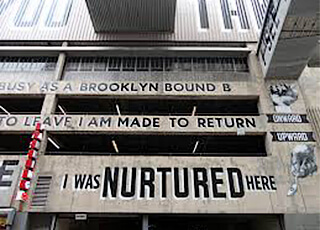
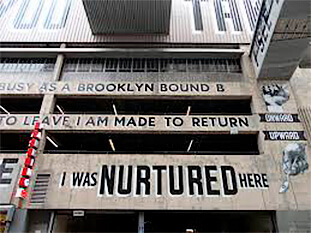
Cases UI: Inspiration grids pixel perfect tweaks confirmed, specially desktop since mobile TRB is the only with PSD file.

diff --git a/app/scss/views/_cases.scss b/app/scss/views/_cases.scss
@@ -173,9 +173,13 @@
 			margin-bottom: 40px;
 			padding: 0 15px;
 
+			@include desktop{
+				padding: 0;
+			}
+
 			@include bigdesktop {
 				margin-bottom: 200px;
-				padding: 0;
+				// padding: 0;
 			}
 
 			.subtitle {
@@ -315,14 +319,14 @@
 					&.fortyfour-4{
 						width: 44.4%;
 					}
-					&.fortyfive-8{
-						width: 45.8%;
-					}
 					&.fortysix{
 						width: 83.33%;
 						@include desktop {
 							width: 46.06%;
 						}
+					}
+					&.fortyseven{
+						width: 47%;
 					}
 					&.fortyseven-6{
 						width: 83.33%;
@@ -374,6 +378,20 @@
 						img{
 							max-width: 460px;
 							float: right;
+						}
+					}
+				}
+
+				&.tbh{
+					.insp1{
+						img{
+							max-width: 460px;
+							float: right;
+						}
+					}
+					.insp4{
+						img{
+							max-width: 460px;
 						}
 					}
 				}
@@ -481,6 +499,11 @@
 			padding: 0px 15px;
 			margin-bottom: 12px;
 
+			@media (min-width: 420px) {
+				padding-left: 0;
+				padding-right: 0;
+			}
+
 			@include desktop {
 				padding: 0;
 				margin-bottom: 38px;
@@ -499,6 +522,11 @@
 			line-height: 1em;
 			width: 100%;
 			margin-bottom: 20px;
+
+			@media (min-width: 420px) {
+				padding-left: 0;
+				padding-right: 0;
+			}
 
 			@include desktop {
 				margin-bottom: 0;

diff --git a/app/scss/application.scss b/app/scss/application.scss
@@ -40,3 +40,58 @@
 	top: 7605px;
 	right: 0;
 }
+
+.tester-cntnr{
+	z-index: 1000000000;
+	pointer-events: none;
+	position: fixed;
+	top: 0;
+	left: 0;
+	width: 100%;
+	height: 100%;
+
+	@include desktop {
+		padding-right: 140px;
+
+	}
+
+	@include fulldesktop {
+		padding-right: 0;
+	}
+
+
+	.grid-tester{
+		background-color: rgba(255,0,0,.08);
+		width: 100%;
+		max-width: 400px;
+		margin: 0 auto;
+		height: 100%;
+		padding: 0 15px;
+
+		@include desktop {
+			max-width: 1100px;
+			padding-left: 7.3%;
+			padding-right: 3.3%;
+		}
+
+		@media (min-width: 1700px){
+			padding-left: 0;
+			padding-right: 0;
+			max-width: 1400px;
+		}
+
+		.row{
+			position: relative;
+			width: 100%;
+			height: 100%;
+			border-right: 1px solid aqua;
+			display: flex;
+		}
+
+		.cols{
+			position: relative;
+			width: 8.33%;
+			border-left: 1px solid aqua;
+		}
+	}
+}
